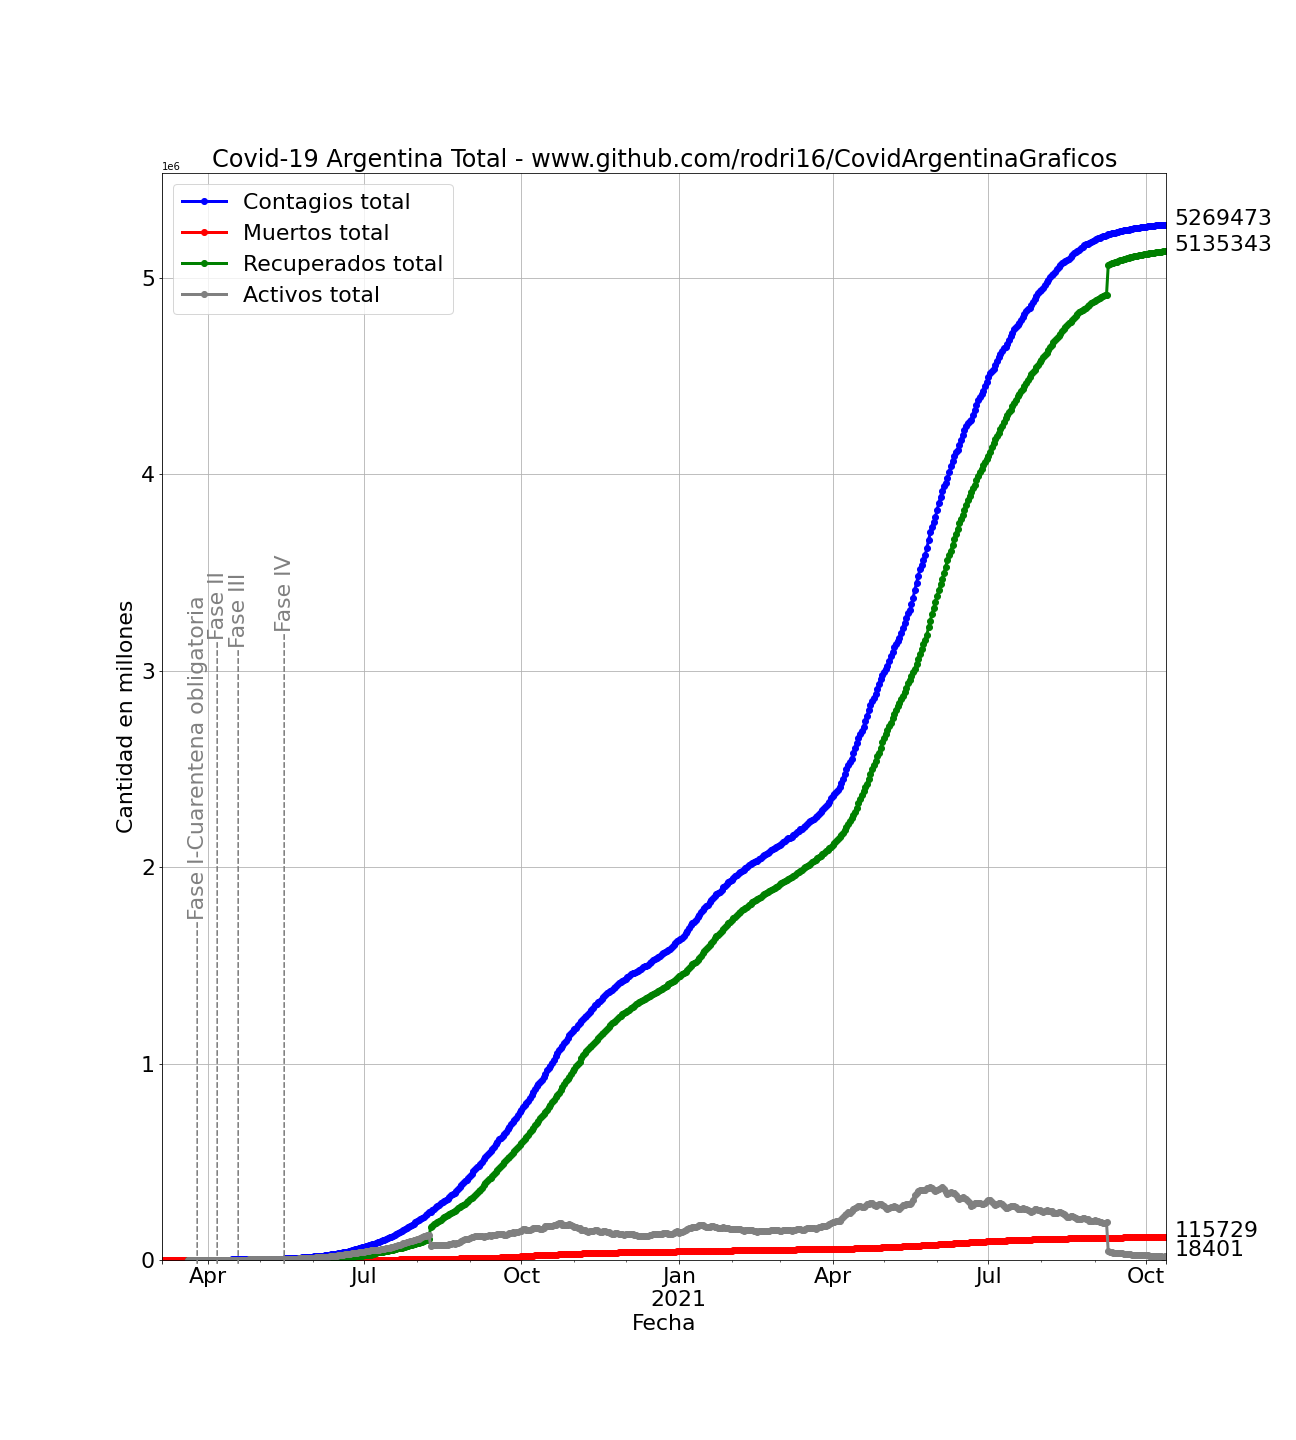
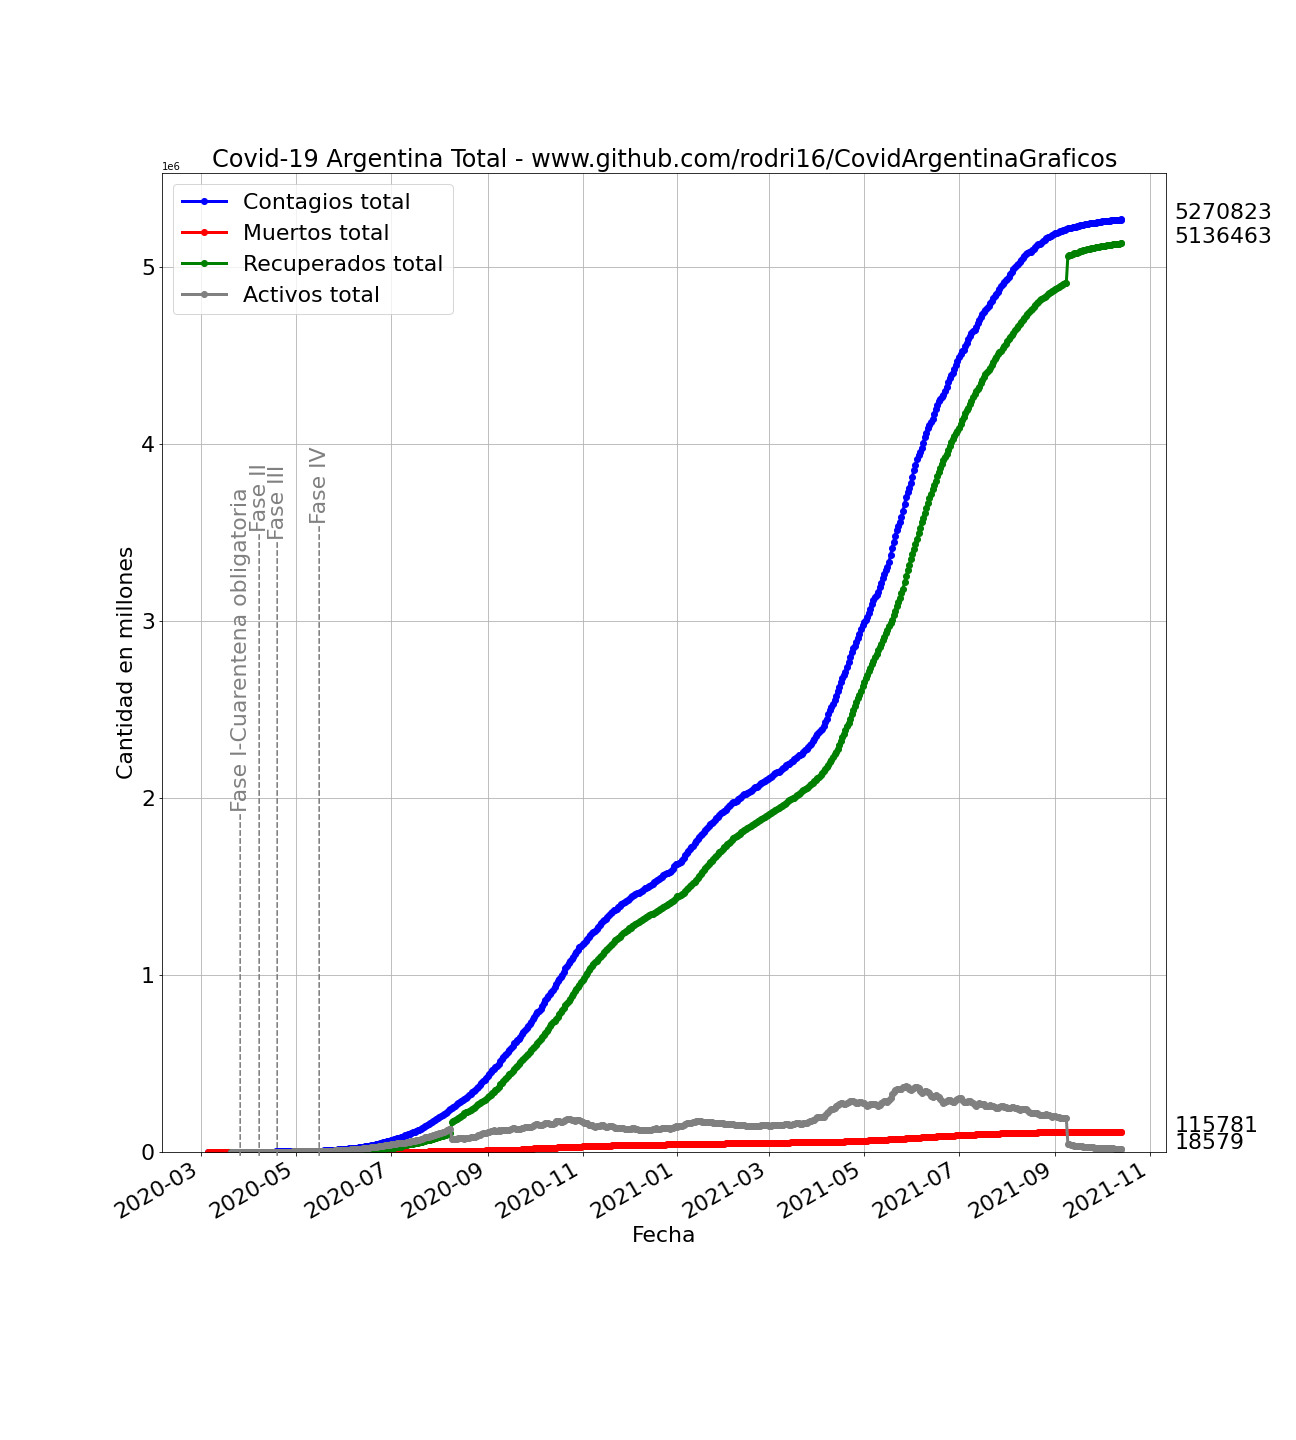
14 Oct

Changed region(s): [[0.0926, 0.125, 0.9877, 0.9375]]

diff --git a/README.md b/README.md
@@ -6,23 +6,23 @@ En este repositorio dejo el código, gráficos y tablas que arme durante el Covi
 Todos los días actualizo los gráficos que se pueden ver directamente acá...
 
 Tasas diarias de contagios, muertos, recuperados y tests, calculo la media de 7 días que es la curva en color y en gris la variación diaria. Entre <> el valor de los últimos 7 días, Max es el valor máximo y el valor actual se ven a la derecha del gráfico.
-![Ejemplo Grafico con la Tasa Diaria subplot](/Graficos/2021/Octubre/TasaDiaria_MA_13Oct.png)
+![Ejemplo Grafico con la Tasa Diaria subplot](/Graficos/2021/Octubre/TasaDiaria_MA_14Oct.png)
 
 -----------
 Cantidad de gente vacunada primera y segunda dosis.
-![Vacunados primera y segunda dosis](/Graficos/2021/Octubre/Vacunas_13Oct.png)
+![Vacunados primera y segunda dosis](/Graficos/2021/Octubre/Vacunas_14Oct.png)
 
 -----------
 TOTALES: Contagios, Muertos, recuperados y pruebas diagnósticas (tests)
-![Ejemplo Grafico del total](/Graficos/2021/Octubre/Contagios_tot_13Oct.png)
+![Ejemplo Grafico del total](/Graficos/2021/Octubre/Contagios_tot_14Oct.png)
 
 -----------
 Total de pruebas diagnósticas (tests) diarias
-![Ejemplo tests diarios](/Graficos/2021/Octubre/TestDiarioBar_13Oct.png)
+![Ejemplo tests diarios](/Graficos/2021/Octubre/TestDiarioBar_14Oct.png)
 
 -----------
 Relación entre Tests y positivos, el porcentaje de testeados que es positivo.
-![Ejemplo relacion tests y positivos](/Graficos/2021/Octubre/Tasa_Cont_Test13Oct.png)
+![Ejemplo relacion tests y positivos](/Graficos/2021/Octubre/Tasa_Cont_Test14Oct.png)
 
 -----------
 Estos son ejemplos de gráficos de tasa diaria, totales, tests, etc, pero hay muchos otros en /Graficos.
